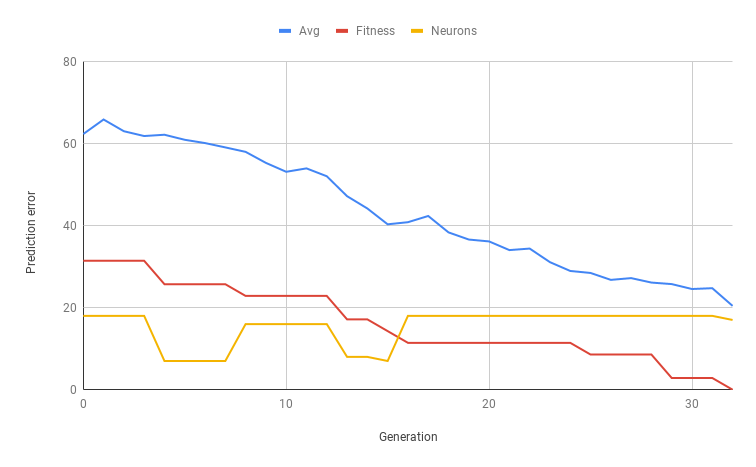
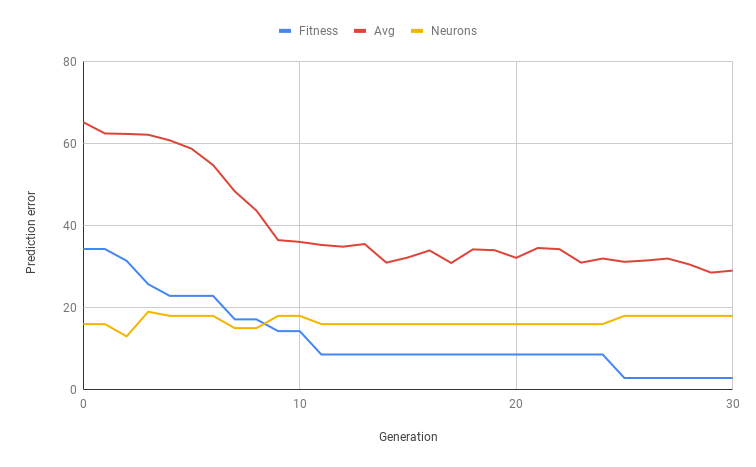
6.1 draft completed

diff --git a/doc/secciones/06_implementacion.tex b/doc/secciones/06_implementacion.tex
@@ -8,7 +8,7 @@ This milestone contained the following user story:
 
 \subsubsection*{\href{https://github.com/salvacorts/TFG-Parasitic-Metaheuristics/issues/20}{Issue \#20}: As an Administrator, I want to run a demo problem so that I can test the platform} 
 
-Fist of all, we need a problem that can perform well in the platform. This problem will be used to test the platform as we develop it further.
+Fist of all, we needed a problem that can perform well in the platform. This problem will be used to test the platform as we develop it further.
 
 We chose a multilayer perceptron (MLP) trained with the \textit{Glass} and \textit{Cancer1a} datasets from \textit{proben1} benchmark \ref{proben1}; a set of benchmarks for neural network training algorithms.
 
@@ -18,7 +18,7 @@ The \textit{Glass} dataset is made of 214 samples of glass where each one contai
 
 There are two main reasons to have chosen a multilayer perceptron to develop and demo the platform. On the one hand, its fitness function takes more time than the average latency of communication between nodes in the platform. On the other hand, we have previous experience \ref{gprop} with this problem and we are familiar with some useful genetic operators we can apply.
 
-The genetic operators of the genetic algorithm we will use to optimize the neural network are the same ones proposed by P. A. Castillo et al in G-Prop \cite{gprop}:
+The genetic operators of the genetic algorithm we have used  to optimize the neural network are the same ones proposed by P. A. Castillo et al in G-Prop \cite{gprop}:
 
 \begin{itemize}
 	\item \textbf{Selection:} Roulette tournament where two chromosomes are randomly selected from the population to cross.
@@ -71,7 +71,7 @@ type Genome interface {
 Since the implementation of these models does not contemplate additional genetic operators apart from those defined in the \textit{Genome} interface from \textit{eaopt}, we had to add an additional member to the generational model class containing an array of extra genetic operators (Listing \ref{lst:ExtraOperator}) that are used after applying mutation and crossover over a given chromosome as seen in Listing \ref{lst:opapp}.
 
 \begin{lstlisting}[
-caption={Definition of an extra genetic operator as a struct with a float representing the probability op application, and a function that takes genome and returns a modified one.},
+caption={Definition of an extra genetic operator as a struct with a float representing the probability of application, and a function that takes genome and returns a modified one.},
 label={lst:ExtraOperator},
 captionpos=b]
 type ExtraOperator struct {
@@ -84,7 +84,6 @@ type ExtraOperator struct {
 caption={Application of extra operators after mutating.},
 label={lst:opapp},
 captionpos=b]
-// Apply mutation to the offsprings
 if mod.MutRate > 0 {
 	offsprings.Mutate(mod.MutRate, pop.RNG)
 }
@@ -100,8 +99,18 @@ for i := range offsprings {
 }
 \end{lstlisting} 
 
-As soon as the the genetic operators were implemented and tested, we proceeded to fully execute the genetic algorithm.
-In order to get some insights about the state of the population during the execution of the genetic algorithm, we logged the fitness and the number of neurons of the best chromosome, and the average fitness of the population after each generation. In Figure \ref{native}
+As soon as the the genetic operators were implemented and unit tested, we proceeded to fully execute the genetic algorithm.
+In order to get some insights about the state of the population during the execution of the genetic algorithm, we logged the fitness and the number of neurons of the best chromosome, and the average fitness of the population after each generation. In Figure \ref{native} we can see how the average and best fitness, as well as the number of neurons of the best solution evolves through the execution of the algorithm.
+
+\begin{lstlisting}[
+caption={Some execution logs.},
+label={lst:logs},
+captionpos=b]
+time="2019-07-18T17:51:50+02:00" level=info msg="Best fitness at generation 0: 34.285714" Avg=65.20000000000003 Fitness=34.28571428571429 Generation=0 HiddenLayer_Neurons=16 fields.level=info
+time="2019-07-18T17:51:51+02:00" level=info msg="Best fitness at generation 1: 34.285714" Avg=62.45714285714287 Fitness=34.28571428571429 Generation=1 HiddenLayer_Neurons=16 fields.level=info
+time="2019-07-18T17:51:52+02:00" level=info msg="Best fitness at generation 2: 31.428571" Avg=62.342857142857135 Fitness=31.42857142857143 Generation=2 HiddenLayer_Neurons=13 fields.level=info
+time="2019-07-18T17:51:53+02:00" level=info msg="Best fitness at generation 3: 25.714286" Avg=62.14285714285714 Fitness=25.714285714285708 Generation=3 HiddenLayer_Neurons=19 fields.level=info
+\end{lstlisting} 
 
 \begin{figure}[h!]
 		\centering
@@ -110,10 +119,77 @@ In order to get some insights about the state of the population during the execu
     	\label{fig:native}
 \end{figure} 
 
-We noticed that the execution of the algorithm was taking too long so we used a profiler in order to study which areas of the code were taking most time. It ended up being the \textit{Go perceptron} logs generator. we disabled these logs and the execution time was dramatically increased from more than 30 minutes to around 2 minutes.
+We noticed that the execution of the algorithm was taking too long so we used a profiler in order to study which areas of the code were taking most time. It ended up being the \textit{Go perceptron} logs generator. we disabled these logs and the execution time was dramatically reduced from more than 2 hours to around 2 minutes.
 
-Once we were happy about the results, we started to build a simple web interface as a proof of concept for the execution of the algorithm compiled into WebAssembly.
+Once we were happy about the results, we started to build a simple web interface as a proof of concept for the execution of the algorithm compiled into WebAssembly. We started with a very simple webpage that executed the compiled webassembly and displayed the logs in the console from the developers tools of the browser. But we had two problems with this approach:
 
+On the one hand, when the browser developers tools are open, WebAssembly is actually ran like a JavaScript in order to be able to debug it. So that, the execution time is considerably increased, losing the main advantage of and the reason of using WebAssembly.
 
-Talk about the results and time in Wasm
+As a solution, we added a HTML \textit{Div} to the webpage where we appended the logs from the program execution directly from go using a custom class (listing \ref{lst:weblogger1}) that implemented the \textit{io.Writer} interface. By doing so, we did not need the developer tools anymore, having direct visual feedback from the execution and good performance.
 
+\begin{lstlisting}[
+caption={Weblogger class used to append logs to the webpage.},
+label={lst:weblogger1},
+captionpos=b]
+// In main()
+log.SetOutput(WebLogger{})
+...
+
+type WebLogger struct{}
+
+func (cl WebLogger) Write(p []byte) (o int, err error) {
+	logs := dom.Doc.GetElementById("logs")
+
+	new := dom.Doc.CreateElement("p")
+	new.SetTextContent(string(p))
+	logs.AppendChild(new)
+
+	return 0, nil
+}
+\end{lstlisting} 
+
+On the other hand, since we were running the webassembly instance directly from a script imported in the HTML page, the same thread that composes the webpage is the one that executes the program and therefore, since this is a computationally intensive tasks, the browser displayed the message from figure \ref{image:kill-task} on top of the webpage. Moreover, if the user changed to another tab, the execution was paused.
+
+\begin{figure}[h!]
+		\centering
+    	\includegraphics[width=\linewidth]{assets/images/browser-warning.png}
+    	\caption{Browser warning about computationally intensive tasks}
+    	\label{image:kill-task}
+\end{figure} 
+
+We solved this by using a webworker \cite{webworker}; a script that runs in a separate thread in the background. The problem with webworkers is that they do not have access to the DOM, instead, they have to communicate with another thread that is being executed in the browser's main thread. It is a simple but limited API where the main thread launches the worker and sets an event listener for incoming messages. Then the worker posts a new message as a string that is delivered to the main thread. Figure \ref{logging-system} illustrates the webworker behaviour we used for the logging system.
+
+\begin{figure}[h!]
+		\centering
+    	\includegraphics[width=\linewidth]{assets/images/logging-system.png}
+    	\caption{The \textit{main.js} script loaded in the main HTML document, starts a webworker that will start the webassembly runtime and load the compiled Go program into it. The logs generated in Go are received by the main thread through the webworker API and these are appended into the web DOM}
+    	\label{image:logging-system}
+\end{figure} 
+
+Since now we had a background job doing the most demanding work, the main thread was free to compose the webpage so we added two line charts using \textit{chart JS} to display live information about the execution. In order to parse the information needed to compose the charts from the logs, we changed their format to JSON in order to deserialize them to Java Script objects and access their information faster and easier.
+
+This concludes the first milestone in the project. The deliverable prototype is resulting web interface for the genetic algortihm that trains the multi layer perceptron in WebAssembly. It can be found at \href{https://salvacorts.github.io/TFG-Parasitic-Metaheuristics/mlp-ea/web/src/}{salvacorts.github.io/TFG-Parasitic-Metaheuristics/mlp-ea/web/src/} and looks as follows.
+
+\begin{figure}[h!]
+		\centering
+    	\includegraphics[width=\linewidth]{assets/images/web-milestone1.png}
+    	\caption{Final prototype of the webpage running the Go code for the genetic algorithm in webassembly.}
+    	\label{image:web-milestone1}
+\end{figure}
+
+The genetic algorithm implementation can be found in the main repository in directory \textit{mlp-ea/common}. The web source can be found in \textit{mlp-ea/web}. The source of the program to execute it natively can be found in \textit{mlp-ea/native} and can be directly run as in Listing \ref{lst:run} or compiled and run as in \ref{lst:build-run}.
+
+\begin{lstlisting}[
+caption={Run native program},
+label={lst:run},
+captionpos=b]
+go run main.go
+\end{lstlisting} 
+
+\begin{lstlisting}[
+caption={Build program and run},
+label={lst:build-run},
+captionpos=b]
+go build main.go
+./main
+\end{lstlisting} 

diff --git a/doc/proyecto.tex b/doc/proyecto.tex
@@ -57,13 +57,17 @@
 \usepackage[Lenny]{fncychap}
 \usepackage{color}
 
+\definecolor{brickred}{rgb}{0.8, 0.25, 0.33}
+\definecolor{oceanboatblue}{rgb}{0.0, 0.47, 0.75}
+
 \lstset{ % add your own preferences
+	breaklines=true,
     basicstyle=\footnotesize,
-    keywordstyle=\color{blue},
+    keywordstyle=\color{oceanboatblue},
     numbers=left,
     numbersep=5pt,
     showstringspaces=false, 
-    stringstyle=\color{green},
+    stringstyle=\color{brickred},
     tabsize=4,
     language=Golang % this is it !
 }
